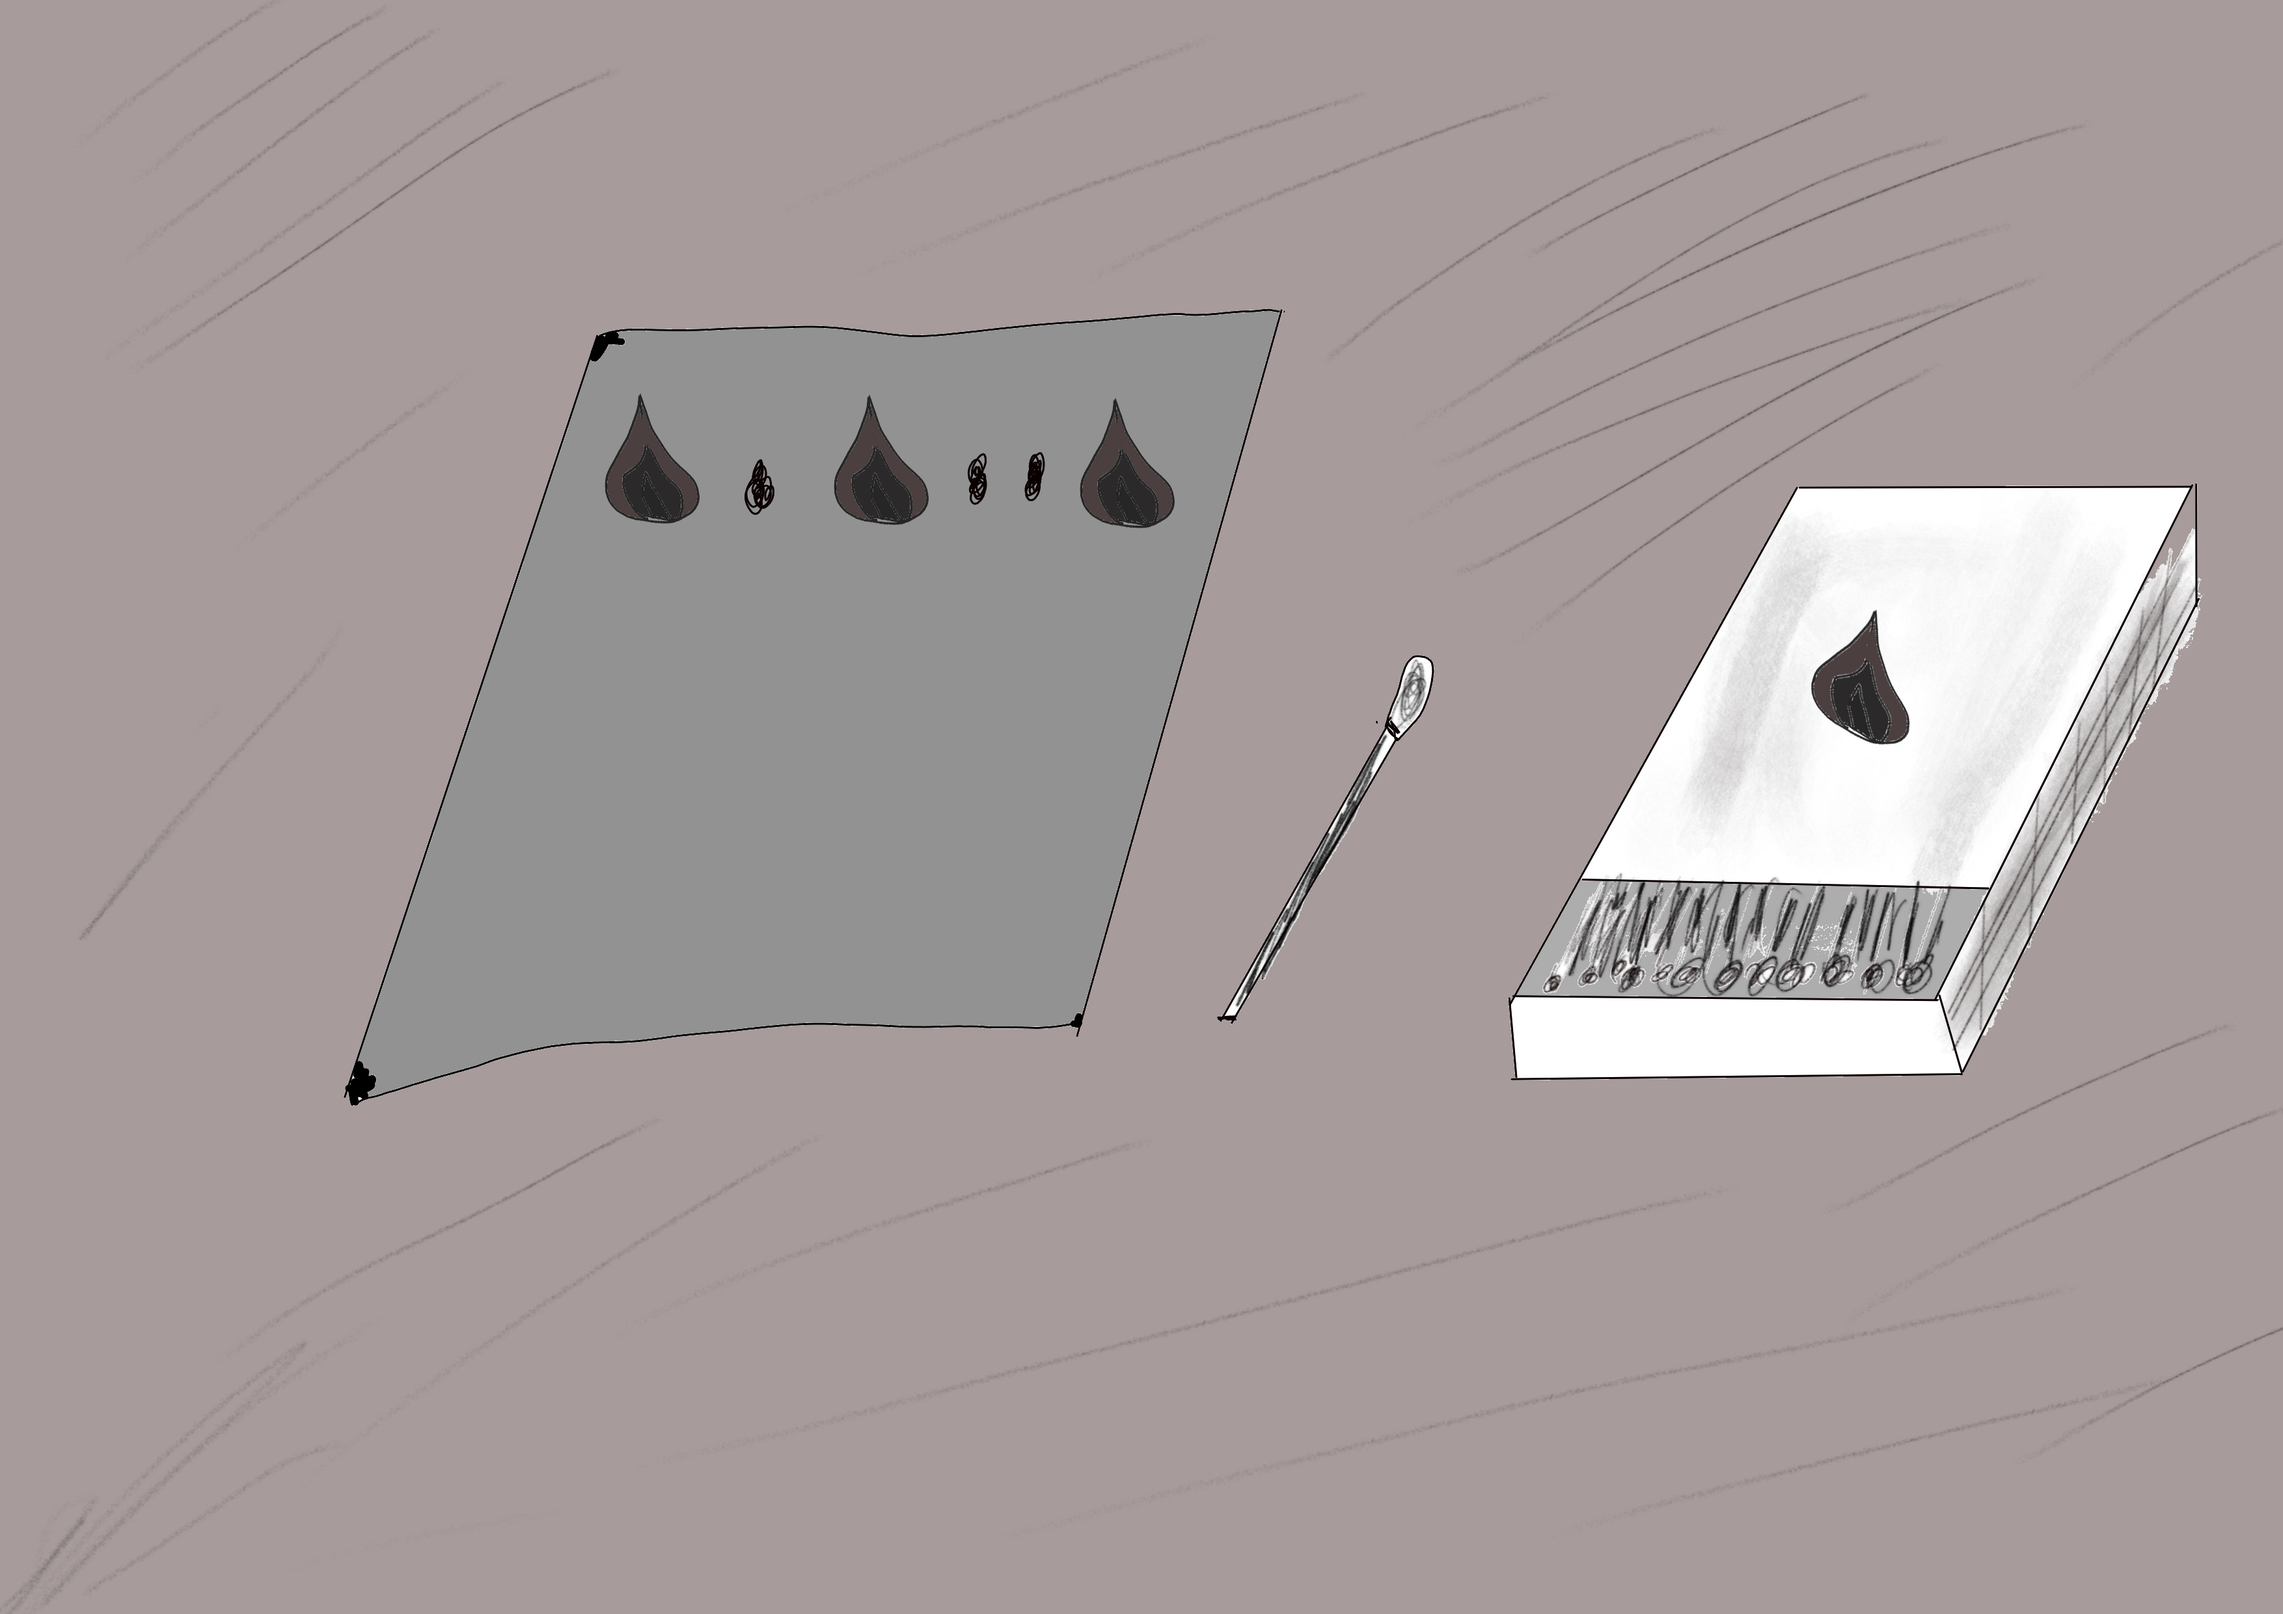
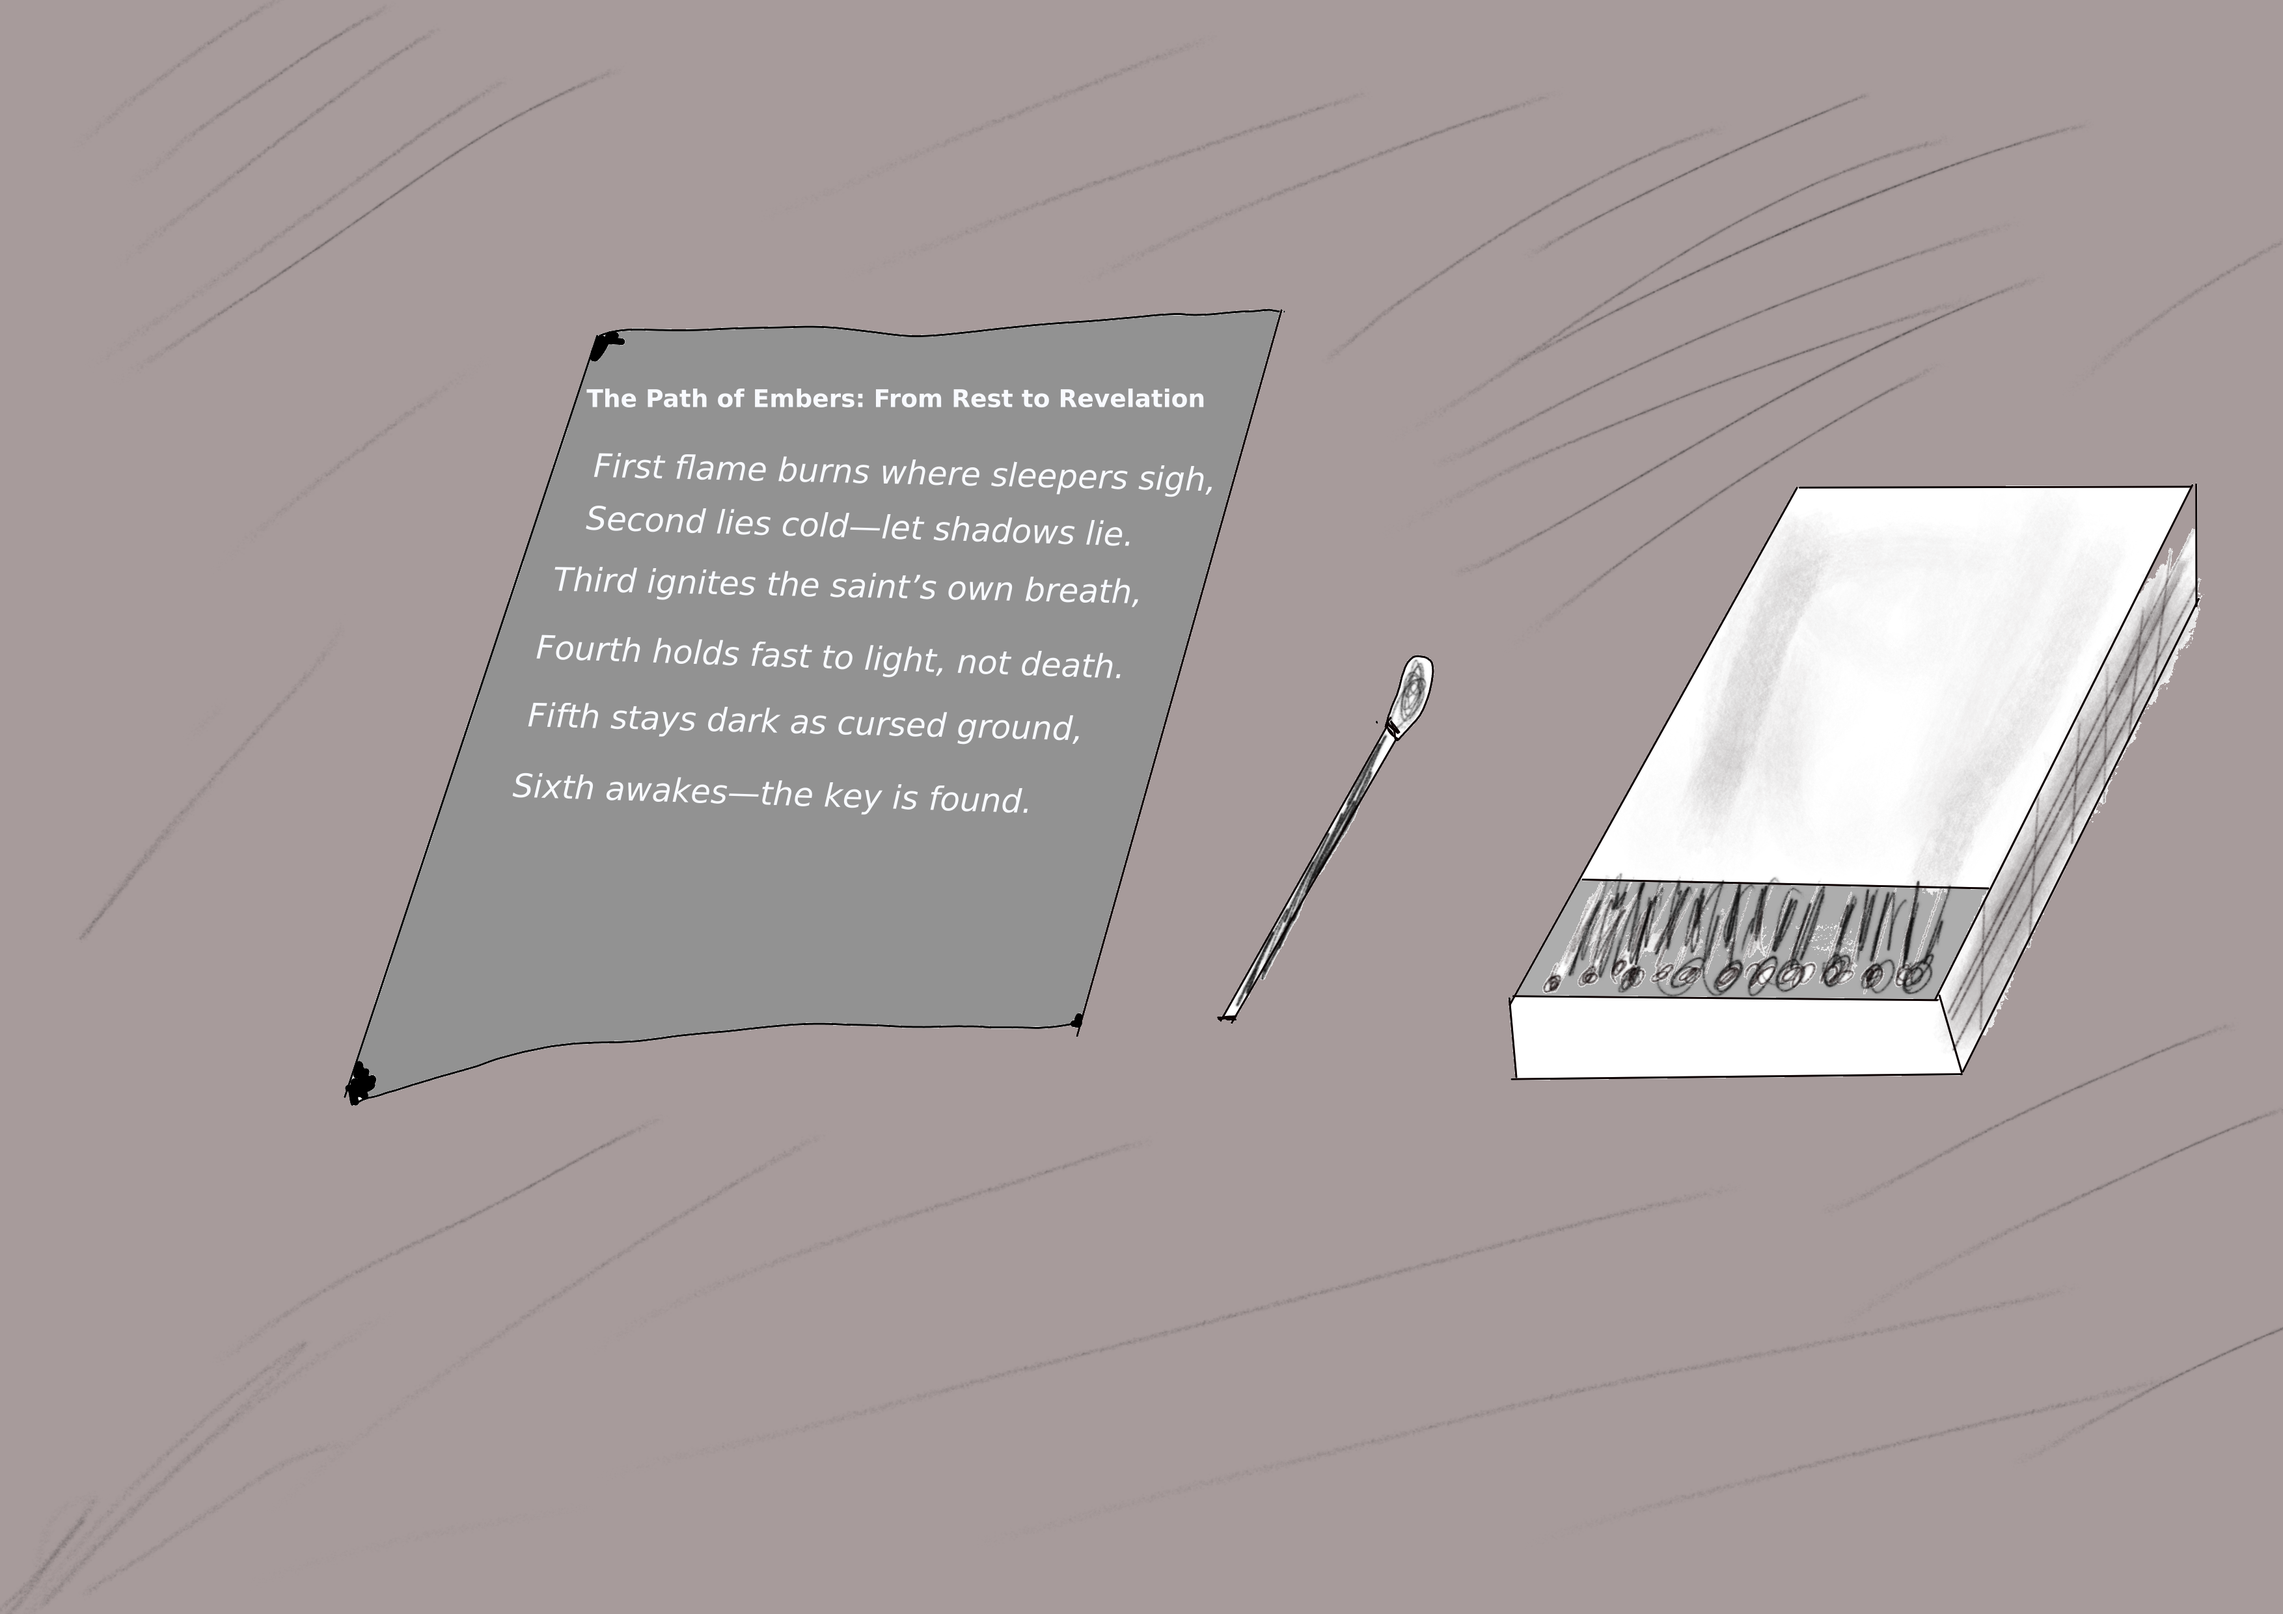
Add poem
Ca sa rezolvi puzzelul trebuie sa citesti poemul

diff --git a/Assets/Scripts/PuzzlesScrips/CandlePatternChecker.cs b/Assets/Scripts/PuzzlesScrips/CandlePatternChecker.cs
@@ -58,28 +58,6 @@ public class CandlePatternChecker : MonoBehaviour , IObserver
         puzzleTrigered = GameStateManager.Instance.GetOrRegisterObjectState(this.puzzleTrigeredID, false);
         puzzleResolved = GameStateManager.Instance.GetOrRegisterObjectState(this.puzzleResolvedID, false);
 
-        if(puzzleTrigered && !puzzleResolved){
-
-             // Change sprite if references exist
-            if (targetSpriteRenderer != null && angelActiveSprite != null)
-            {
-                targetSpriteRenderer.sprite = angelActiveSprite;
-            }
-
-            if (closeUpCanvasImage != null && closeUpAngelSprite != null)
-            {
-                closeUpCanvasImage.sprite = closeUpAngelSprite;
-            }
-
-            // Flip all candles
-            foreach (CandleFlicker candle in candleScripts)
-            {
-                if (candle != null)
-                {
-                    candle.ToggleCandle();
-                }
-            }
-        }
 
         // If the puzzle was previously resolved
         if (puzzleResolved)
@@ -145,6 +123,34 @@ public class CandlePatternChecker : MonoBehaviour , IObserver
                 else
                 {
                     Debug.LogWarning("CandleFlicker script missing on: " + candle.name);
+                }
+            }
+        }
+
+        if(puzzleTrigered && !puzzleResolved){
+
+             // Change sprite if references exist
+            if (targetSpriteRenderer != null && angelActiveSprite != null)
+            {
+                targetSpriteRenderer.sprite = angelActiveSprite;
+            }
+
+            if (closeUpCanvasImage != null && closeUpAngelSprite != null)
+            {
+                closeUpCanvasImage.sprite = closeUpAngelSprite;
+            }
+
+            foreach (GameObject candle in candles){
+                CandelOnOff script = candle.GetComponent<CandelOnOff>();
+                script.enabled = true;
+            }
+
+            // Flip all candles
+            foreach (CandleFlicker candle in candleScripts)
+            {
+                if (candle != null)
+                {
+                    candle.ToggleCandle();
                 }
             }
         }
